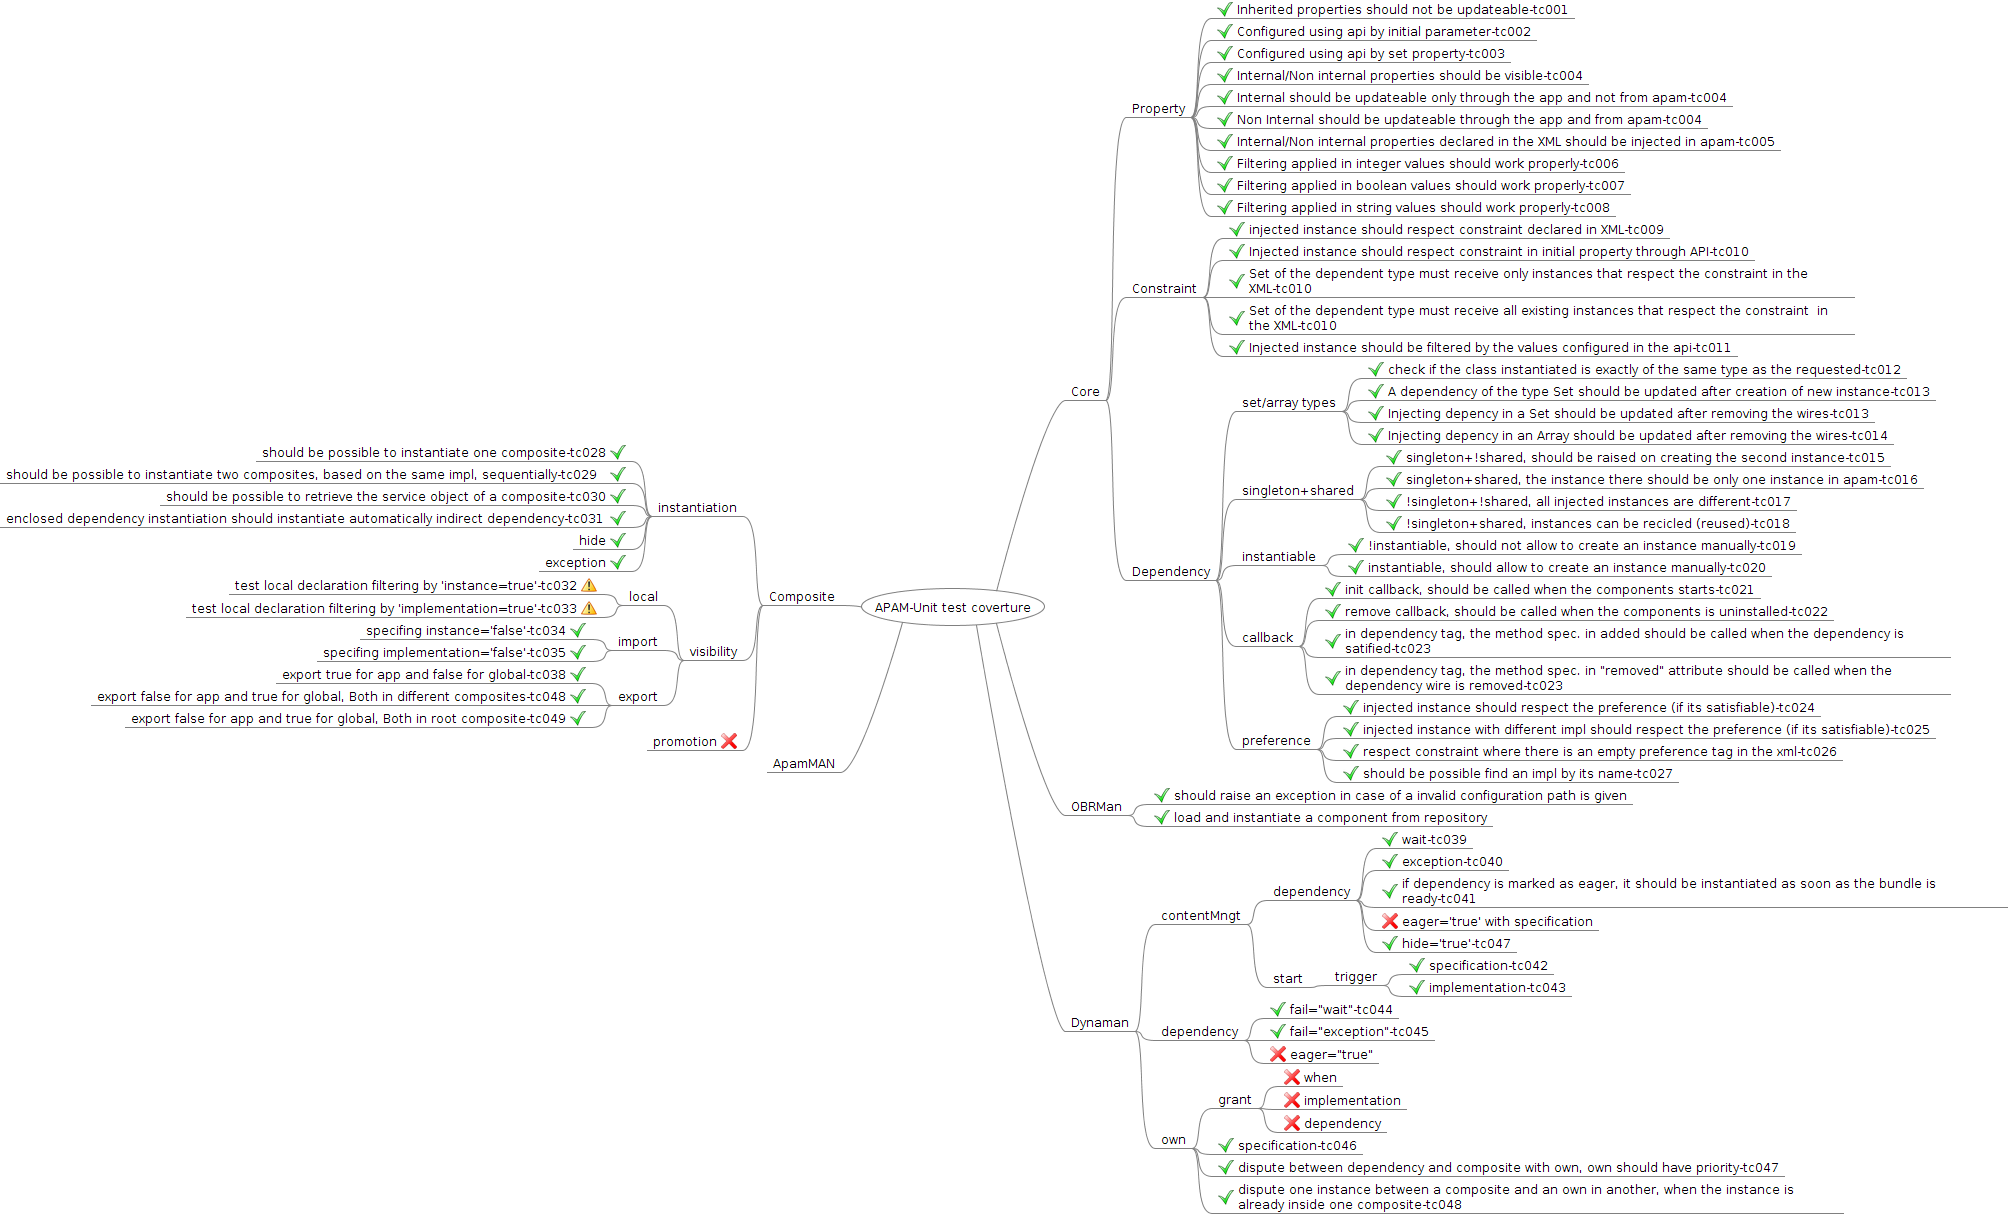
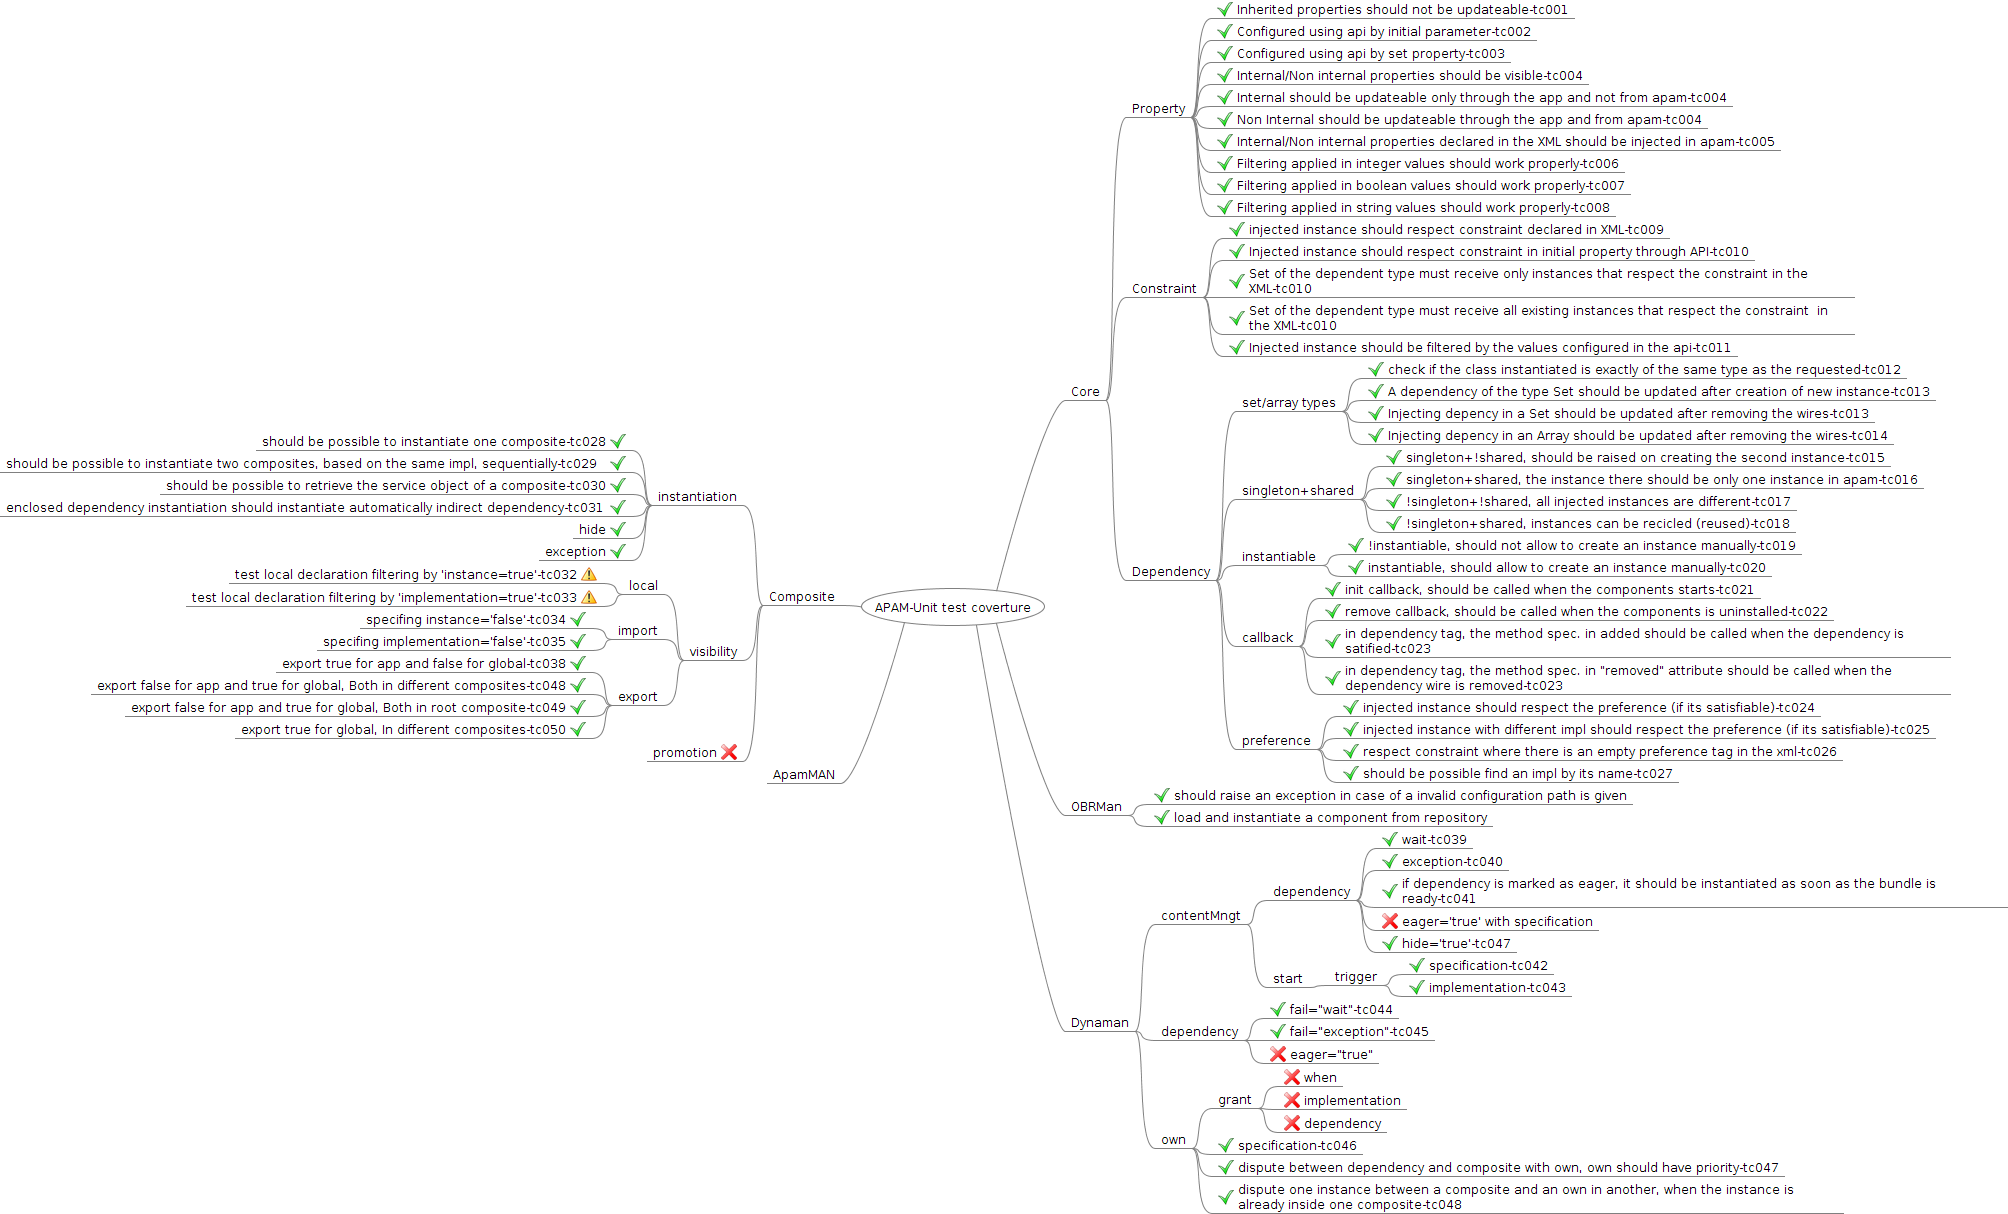
tc050

Changed region(s): [[0.0, 0.3657, 0.3705, 0.6096], [0.3088, 0.6096, 0.4323, 0.64]]

diff --git a/tests/pax-test/src/test/java/fr/imag/adele/apam/test/testcases/CompositeTest.java b/tests/pax-test/src/test/java/fr/imag/adele/apam/test/testcases/CompositeTest.java
@@ -409,4 +409,52 @@ public class CompositeTest extends ExtensionAbstract {
 
 	}	
 	
+	@Test
+	public void CompositeContentMngtExportGlobalEverythingInstance_tc050() {
+		
+		CompositeType appCompositeType = (CompositeType) CST.apamResolver.findImplByName(
+				null, "composite-a");
+		
+		Composite appCompositeA=(Composite)appCompositeType.createInstance(null, null);
+		
+		CompositeType appCompositeTypeC = (CompositeType) CST.apamResolver.findImplByName(
+				null, "composite-c");
+		
+		Composite appCompositeC=(Composite)appCompositeTypeC.createInstance(null, null);
+		
+		CompositeType cta = (CompositeType) CST.apamResolver.findImplByName(
+				null, "composite-a-export-global-everything");
+
+		CompositeType ctb = (CompositeType) CST.apamResolver.findImplByName(
+				null, "composite-b");
+		
+		Implementation ia=CST.apamResolver.findImplByName(null, "group-a");
+		
+		Composite composite_a = (Composite) cta.createInstance(appCompositeA, null);
+		Composite composite_b = (Composite) ctb.createInstance(appCompositeC, null);
+
+		Instance instanceApp1=ia.createInstance(composite_a, null);
+		
+		Instance instanceApp2=ia.createInstance(composite_b, null);
+
+		S3GroupAImpl ga1 = (S3GroupAImpl) instanceApp1.getServiceObject();
+
+		S3GroupAImpl ga2 = (S3GroupAImpl) instanceApp2.getServiceObject();
+
+		ga1.getElement();
+		
+		apam.waitForIt(Constants.CONST_WAIT_TIME);
+		
+		auxListInstances("bbbbbbbbbbbbbbbbbbbbbbbb");
+		
+		ga2.getElement();
+
+		auxListInstances("aaaaaaaaaaaaaaaaaaaaaaaa");
+		
+		String message= "Consider composite A, instantiated into a composite SA, and B, into a composite SB. If A declares that export everything globally, its instances should be visible/injected in B";
+		
+		Assert.assertTrue(message,ga1.getElement() == ga2.getElement());
+
+	}	
+	
 }

diff --git a/documentations/technical/test-coverture/APAM-UnitTest-Coverture-OnFreeMindApp.mm b/documentations/technical/test-coverture/APAM-UnitTest-Coverture-OnFreeMindApp.mm
@@ -166,6 +166,9 @@
 <node CREATED="1354720921759" ID="ID_1848111957" MODIFIED="1354721457522" TEXT="export false for app and true for global, Both in root composite-tc049">
 <icon BUILTIN="button_ok"/>
 </node>
+<node CREATED="1354723044639" ID="ID_775391030" MODIFIED="1354723248409" TEXT="export true for global, In different composites-tc050">
+<icon BUILTIN="button_ok"/>
+</node>
 </node>
 </node>
 <node CREATED="1353943098647" ID="ID_1485505744" MODIFIED="1353943999397" TEXT="promotion">
